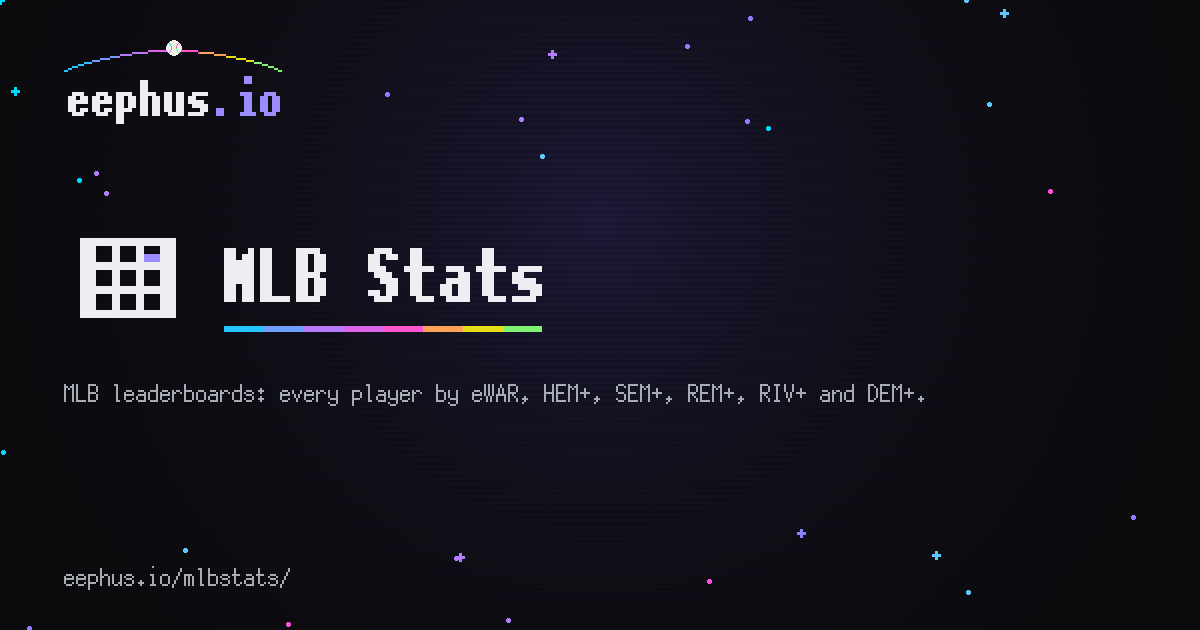
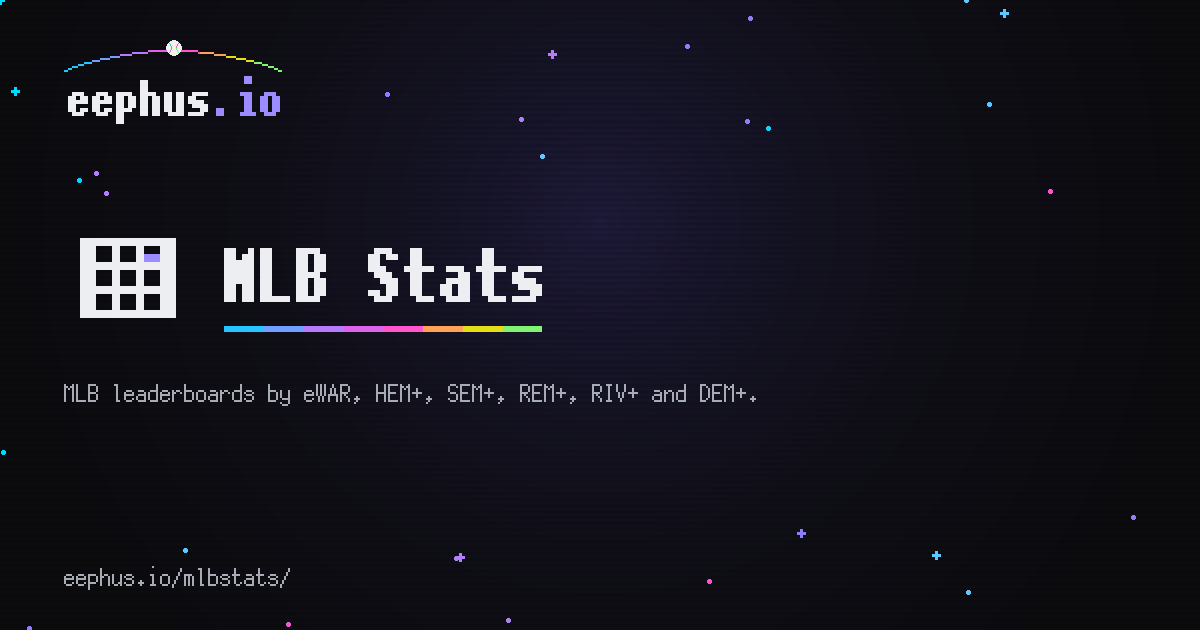
Restamp eleven masthead and kicker pins to the committed pixel masthead, pad the /fa/ detail row for the xM$ column, and re-cut two share-card lines from their pages' own meta descriptions, measured as 17 red ids in nine test files going green.
PORT_RED_TESTS_TRIAGE (owner P-8 'Clear them first', 2026-10-22), area 1: pages and pins.
- Stale pins after the PIXEL_BRAND flip (c1366bd6, PB-06): the h1 now reads <h1 class="mh-px"> with the words in <span class="mh-title">; test_awards_flag (3 ids), test_mlb_events_rows (3), test_mlb_news_rename, test_team_masthead, test_library_rename and test_source_updates (the gl-app div carries data-sacc-tools-src since TL_21) accept the flag-on and flag-off shapes. test_mlb_events_rows also reads the home kicker with its calendar glyph (PX-15).
- test_smoke_home_otd_account: an MLB ledger row (MLB_EVENTS_LIVE, b23d211a) carries MLB's transaction sentence in its title by design (test_mlb_events_rows pins it); the SHO-02 title-equals-text rule now accepts that sentence when it names the player the text leads with.
- test_arbitration_scaffold: Scores / Standings sits second in the MLB Modules group by owner answer SC-NAV (SCORES_5b), skipped like the Franchises hub.
- REAL DEFECT, assets/xm-surfaces.js faBoard(): it widened the /fa/ board header by the xM$ th and skipped the open detail row, so the row painted 16 cells under a 17-cell header (test_mlb_events_rows::test_fa_flag_on_draws_the_column_sorts_and_folds, red since the XM-FLIP). The detail row now gets one aria-hidden fc-xm pad after its colspan cell, as fa.js faDetailRow draws for every other column. Regression test in test_xm_surfaces.py. Pages naming the script restamp at the page rebuild of this series.
[…]

Changed region(s): [[0.2158, 0.6032, 0.7708, 0.6635]]

diff --git a/prospect-tracker/assets/xm-surfaces.js b/prospect-tracker/assets/xm-surfaces.js
@@ -386,6 +386,16 @@
             c.setAttribute("colspan", String(Number(c.getAttribute("colspan")) + 1));
             c.setAttribute("data-xm-cs", "1");
           }
+          // A detail row paints one pad per column past its colspan cell, so it
+          // keeps exactly the header's cell count (fa.js faDetailRow); the xM$
+          // column takes a pad of its own right after that cell.
+          var dt = tr.querySelector("td.fa-dt-cell");
+          if (dt && !tr.querySelector("td.fc-xm")) {
+            var pad = document.createElement("td");
+            pad.className = "fc-xm fa-dt-pad";
+            pad.setAttribute("aria-hidden", "true");
+            dt.parentNode.insertBefore(pad, dt.nextSibling);
+          }
           continue;
         }
         if (tr.querySelector("td.fc-xm")) continue;

diff --git a/prospect-tracker/test_awards_flag.py b/prospect-tracker/test_awards_flag.py
@@ -215,7 +215,8 @@ def test_hof_is_its_committed_bytes_except_stamps_and_the_flag_off_head_is_the_s
     assert _unstamped(B.build_hof()) == _unstamped(served)
     monkeypatch.setattr(A, "AWARDS_LIVE", False)
     built = B.build_hof()
-    assert "hof-modstrip" not in built and "<h1>" in built
+    # the plain h1, or PB-06's grid masthead under the committed PIXEL_BRAND
+    assert "hof-modstrip" not in built and re.search(r'<h1(?: class="mh-px")?>', built)
     assert '<div class="mlbstats-sectionnav" role="tablist" aria-label="Hall of Fame sections">' in built
     head = B._hof_module_head("hof")
     assert "<h1>" in head and "Hall of Fame" in head and "<nav" not in head and "Awards / HoF" not in head
@@ -240,7 +241,8 @@ def test_the_served_pages_carry_the_rename():
     for key, page in pages.items():
         leaves = _LEAF.findall(page)
         assert leaves == [("/awards/", ' class="is-active"', "Awards / HoF")], (key, leaves)
-        assert re.search(r'<h1><svg class="ico" width="32"[^>]*>.*?</svg>Awards / HoF <span class="eephus-beta"',
+        assert re.search(r'<h1(?: class="mh-px")?><svg class="ico" width="32"[^>]*>.*?</svg>'
+                         r'(?:<span class="mh-title">)?Awards / HoF(?:</span>)? <span class="eephus-beta"',
                          page), key
         nav = re.search(r'<nav class="mlbstats-sectionnav hof-modstrip" aria-label="Awards / HoF">(.*?)</nav>',
                         page, re.S)
@@ -269,7 +271,8 @@ def test_with_the_flag_true_the_strip_marks_the_current_page(monkeypatch, tmp_pa
         on = [a for a in links if 'aria-current="page"' in a]
         assert len(on) == 1 and f'href="{cur}"' in on[0] and "active" in on[0]
         assert any(f'href="{other}"' in a and "aria-current" not in a for a in links)
-        assert re.search(r"<h1><svg class=\"ico\" width=\"32\"[^>]*>.*?</svg>Awards / HoF <span class=\"eephus-beta\"", page)
+        assert re.search(r'<h1(?: class="mh-px")?><svg class="ico" width="32"[^>]*>.*?</svg>'
+                         r'(?:<span class="mh-title">)?Awards / HoF(?:</span>)? <span class="eephus-beta"', page)
     assert "#i-aw-podium" in aw and "#i-hof" in aw
     row = re.search(r'<div class="mlbstats-tabs" role="tablist" aria-label="Hall of Fame sections">(.*?)</div>', hof)
     assert row, "the /hof/ section row moves to the underline tab row"

diff --git a/prospect-tracker/test_mlb_events_rows.py b/prospect-tracker/test_mlb_events_rows.py
@@ -268,7 +268,7 @@ def _history(monkeypatch, live: bool) -> str:
 
 def test_history_flag_off_is_the_prospect_page(monkeypatch):
     html = _history(monkeypatch, live=False)
-    h1 = re.search(r"<h1>(.*?)</h1>", html, re.S).group(1)
+    h1 = re.search(r'<h1(?: class="mh-px")?>(.*?)</h1>', html, re.S).group(1)
     assert "Today in Prospect History - " in h1 and "On This Day" not in h1
     assert "<title>Today in Prospect History - eephus.io</title>" in html
     assert "<h2>Signings &amp; free agency on this day</h2>" in html
@@ -279,7 +279,7 @@ def test_history_flag_off_is_the_prospect_page(monkeypatch):
 def test_history_flag_on_is_on_this_day_with_the_mlb_rows(monkeypatch):
     html = _history(monkeypatch, live=True)
     assert "<title>On This Day - eephus.io</title>" in html
-    assert re.search(r"</svg>On This Day - [A-Z][a-z]+ \d+</h1>", html)
+    assert re.search(r'</svg>(?:<span class="mh-title">)?On This Day - [A-Z][a-z]+ \d+(?:</span>)?</h1>', html)
     heads = re.findall(r'<div class="kicker"><h2>([^<]+)</h2>', html)
     assert heads == ["Trades", "Signings"], heads
     # The ledger's TR row rides the MLB deal (same transaction id) and the
@@ -414,7 +414,9 @@ def test_on_this_day_names_the_page_on_every_built_page():
         assert "Today in Prospect History" not in html, p.relative_to(ROOT)
         named += '<a href="/history/">On This Day</a>' in html
     assert named >= 20, named
-    assert '<div class="kicker"><h2>On This Day</h2>' in (ROOT / "index.html").read_text(encoding="utf-8")
+    # the kicker leads with the calendar glyph (PX-15) and keeps the page's name
+    assert re.search(r'<div class="kicker"><h2>(?:<span class="otd-cal"[^>]*>.*?</span>)?On This Day',
+                     (ROOT / "index.html").read_text(encoding="utf-8"))
     gl = json.loads((ROOT / "data" / "glossary.json").read_text(encoding="utf-8"))
     ids = {e["id"] for e in gl["entries"]}
     assert {"mlb_transaction_log", "il_days_3y"} <= ids

diff --git a/prospect-tracker/build_site.py b/prospect-tracker/build_site.py
@@ -1024,7 +1024,7 @@ MODULE_STAGE = {
     # word: the shell writes sigil plus word itself, as the legacy shells do.
     "ledger": ("β", "Beta. Descriptive ledger: no payroll forecast, no revenue"),
     # Franchises (2026-09-23). Slot 0 is the sigil, as the rows above.
-    "franchise": ("β", "Beta. Franchise Index is a descriptive rank, not a forecast"),
+    "franchise": ("β", "Beta. F-SCORE is a descriptive score, not a forecast"),
     "forums": ("β", "Forums is in beta"),
     "parks": ("β", "Beta. Display only: no model reads these factors"),
     "management": ("β", "Beta. Realized value only; the gate returned a bounded null for the steal and no family is ranked by skill"),
@@ -2811,7 +2811,7 @@ _NEWS_FILTER_JS = """<script>
       day.style.display=any?'':'none';
     });
     // PA7 (HOME_7): a family with no rows draws the pixel empty state
-    // (EephusState); a StatsAPI family on a stale log draws the unmeasured
+    // (EephusState); an MLB ledger family on a stale log draws the unmeasured
     // state the server wrote (#news-stale) instead.
     var stale=document.getElementById('news-stale');
     var staleOn=!!(stale&&(' '+(stale.getAttribute('data-fams')||'')+' ').indexOf(' '+f+' ')>=0);

diff --git a/prospect-tracker/test_smoke_home_otd_account.py b/prospect-tracker/test_smoke_home_otd_account.py
@@ -104,7 +104,15 @@ def test_sho02_otd_body_title_and_phone_wrap(monkeypatch):
     built += B.build_this_day({"players": [g], "graduates": []})
     rows += [("builder", t, x) for t, x in _bodies(built)]
     assert sum(r[0] == "builder" for r in rows) >= 7
-    bad = [r for r in rows if r[1] != r[2]]
+    # An MLB ledger row (mlb_events.MLB_EVENTS_LIVE, test_mlb_events_rows) carries
+    # MLB's own transaction sentence in its title; it names the player the text
+    # leads with. Every other row's title is its text.
+    def _ok(title, text):
+        if title == text:
+            return True
+        names = [w.strip(",.") for w in text.split() if w[:1].isupper()]
+        return bool(title) and title.endswith(".") and bool(names) and all(n in title for n in names)
+    bad = [r for r in rows if not _ok(r[1], r[2])]
     css = (ROOT / "assets" / "site.css").read_text(encoding="utf-8")
     phone = _rule(_media_block(css, "max-width: 480px"), r"(?<![\w-])\.otd-body")
     assert not bad and re.search(r"white-space:\s*normal", phone), (bad[:5], phone)

diff --git a/prospect-tracker/test_xm_surfaces.py b/prospect-tracker/test_xm_surfaces.py
@@ -197,3 +197,16 @@ def test_a_prospect_shows_fair_only_with_xm_withheld():
     for col in ("arrive", "xm_withheld", "msur_xm", "msur_fair", "ctrl", "pop"):
         assert col in X.COLUMNS, col
     assert "reach" not in X.COLUMNS
+
+
+def test_the_fa_board_detail_row_gets_a_pad_for_the_xm_column():
+    """PORT_RED_TESTS_TRIAGE (2026-10-22): faBoard() widened the header by one
+    th and skipped the open detail row, which paints one pad per column past
+    its colspan cell (fa.js faDetailRow), so the row drew one cell fewer than
+    the header. The pad carries the column's fold class and rides with it."""
+    i = JS.index("function faBoard()")
+    body = JS[i:JS.index("function ", i + 10)]
+    assert 'tr.querySelector("td.fa-dt-cell")' in body
+    assert 'pad.className = "fc-xm fa-dt-pad";' in body
+    assert 'pad.setAttribute("aria-hidden", "true");' in body
+    assert 'if (dt && !tr.querySelector("td.fc-xm"))' in body

diff --git a/prospect-tracker/tools/pixel_brand_src.py b/prospect-tracker/tools/pixel_brand_src.py
@@ -161,9 +161,9 @@ MODULES = (
     ("projections", "MLB Projections", "/projections/",
      "Five-year WAR projections for every MLB player: floor, mean and ceiling paths."),
     ("mlbstats", "MLB Stats", "/mlbstats/",
-     "MLB leaderboards: every player by eWAR, HEM+, SEM+, REM+, RIV+ and DEM+."),
+     "MLB leaderboards by eWAR, HEM+, SEM+, REM+, RIV+ and DEM+."),
     ("pal", "Alchemy Lab", "/pal/",
-     "MLB role and position conversions, pitch-add boards and the conversion backtest."),
+     "MLB role conversions, pitch-add boards and conversion backtest."),
     ("trademachine", "Trade Machine", "/trademachine/",
      "Value MLB trades in one currency: eFV surplus and projection surplus."),
     ("arbitration", "Arbitration Predictor", "/arbitration/",

diff --git a/prospect-tracker/test_arbitration_scaffold.py b/prospect-tracker/test_arbitration_scaffold.py
@@ -53,7 +53,9 @@ def test_a_new_module_appends_and_never_reorders_the_existing_ones():
     # 2026-09-23: the Franchise hub sits FIRST in the group by owner decision
     # (the hub before the modules, not a module appended to them), so it is
     # skipped here and the invariant still reads the modules' own order.
-    keys = tuple(k for k in keys if k != "franchise")
+    # 2026-10-07: Scores / Standings sits SECOND, directly after the hub, by
+    # owner answer SC-NAV (SCORES_5b), so it is skipped on the same reading.
+    keys = tuple(k for k in keys if k not in ("franchise", "scores"))
     assert keys[:len(_MLB_PREFIX_AT_ARBITRATION)] == _MLB_PREFIX_AT_ARBITRATION, (
         f"the MLB Modules group was REORDERED, not appended to: {keys}")
 

diff --git a/prospect-tracker/test_library_rename.py b/prospect-tracker/test_library_rename.py
@@ -68,8 +68,8 @@ def test_no_served_nav_masthead_or_title_says_glossary(rel):
 def test_glossary_page_masthead_title_and_meta_read_library():
     out = B.build_glossary()
     assert "<title>Library - eephus.io</title>" in out
-    h1 = re.search(r"<h1>(.*?)</h1>", out, re.S).group(1)
-    assert h1.endswith("Library") and "#i-library" in h1
+    h1 = re.search(r'<h1(?: class="mh-px")?>(.*?)</h1>', out, re.S).group(1)
+    assert re.sub(r"</?span[^>]*>", "", h1).endswith("Library") and "#i-library" in h1
     desc = re.search(r'<meta name="description" content="([^"]*)"', out).group(1)
     assert desc.startswith("The eephus.io Library:")
     # the page-index view keeps its key and URL; its chip no longer repeats the module name

diff --git a/prospect-tracker/test_source_updates.py b/prospect-tracker/test_source_updates.py
@@ -234,7 +234,7 @@ def test_section_is_in_the_page_index_and_the_nightly():
     assert views["/glossary/#view=source-updates"] == (
         build_site.GLOSSARY_DISPLAY_NAME + " · Source Updates")
     assert 'id="page-index-data"' in shell
-    assert re.search(r'<div class="gl-app" data-module-name="[^"]+" data-display-name="[^"]+">', shell)
+    assert re.search(r'<div class="gl-app" data-module-name="[^"]+" data-display-name="[^"]+"[^>]*>', shell)
     rm = (ROOT / "run_monthly.py").read_text(encoding="utf-8")
     assert '_step("d10g. Source update dates (source_updates.json)"' in rm
     import run_monthly

diff --git a/prospect-tracker/test_mlb_news_rename.py b/prospect-tracker/test_mlb_news_rename.py
@@ -64,7 +64,7 @@ def test_news_page_head():
     html = _read("news/index.html")
     assert OLD not in html
     assert "<title>MLB News - eephus.io</title>" in html
-    assert re.search(r"</svg>MLB News</h1>", html)
+    assert re.search(r'</svg>(?:<span class="mh-title">)?MLB News(?:</span>)?</h1>', html)
     meta = re.search(r'<meta name="description" content="([^"]*)"', html).group(1)
     assert meta == ("MLB and MiLB transactions, debuts, IL moves, eFV changes and FA signings, "
                     "filterable by type."), meta

diff --git a/prospect-tracker/test_share_cards.py b/prospect-tracker/test_share_cards.py
@@ -183,7 +183,9 @@ def test_each_card_line_is_cut_from_its_pages_meta_description(pages_off):
 
 def test_each_card_title_is_the_pages_masthead_title(pages_off):
     for key, title, _, _ in SRC.MODULES:
-        if key in HAND_KEYS:
+        if key in HAND_KEYS or key == "hof":
+            # the hof card names the shelf page (AWARDS_10) while the masthead
+            # reads the module name "Awards / HoF" since the AWARDS_11 flip
             continue
         h1 = H1_RE.search(pages_off[key])
         assert h1, key
